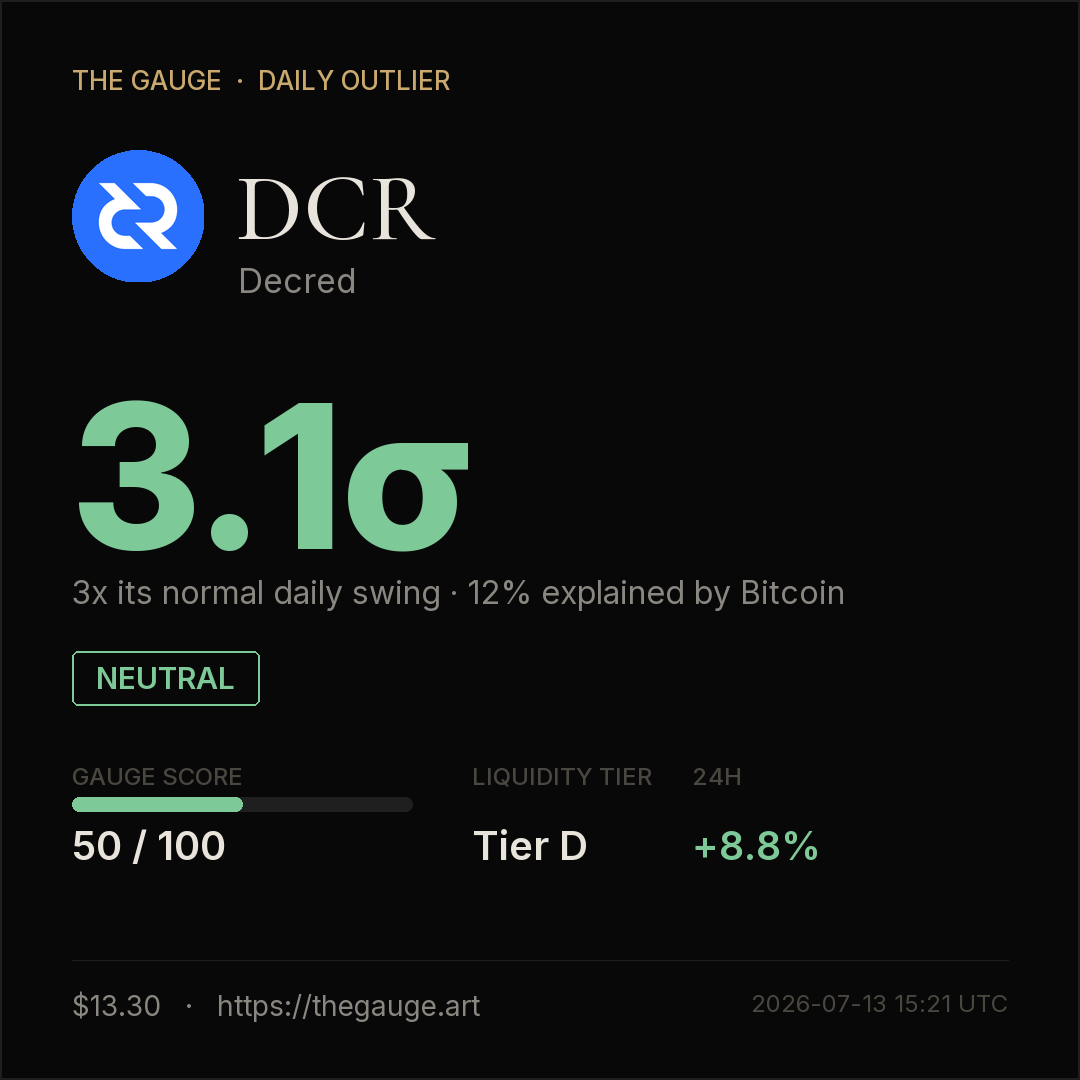
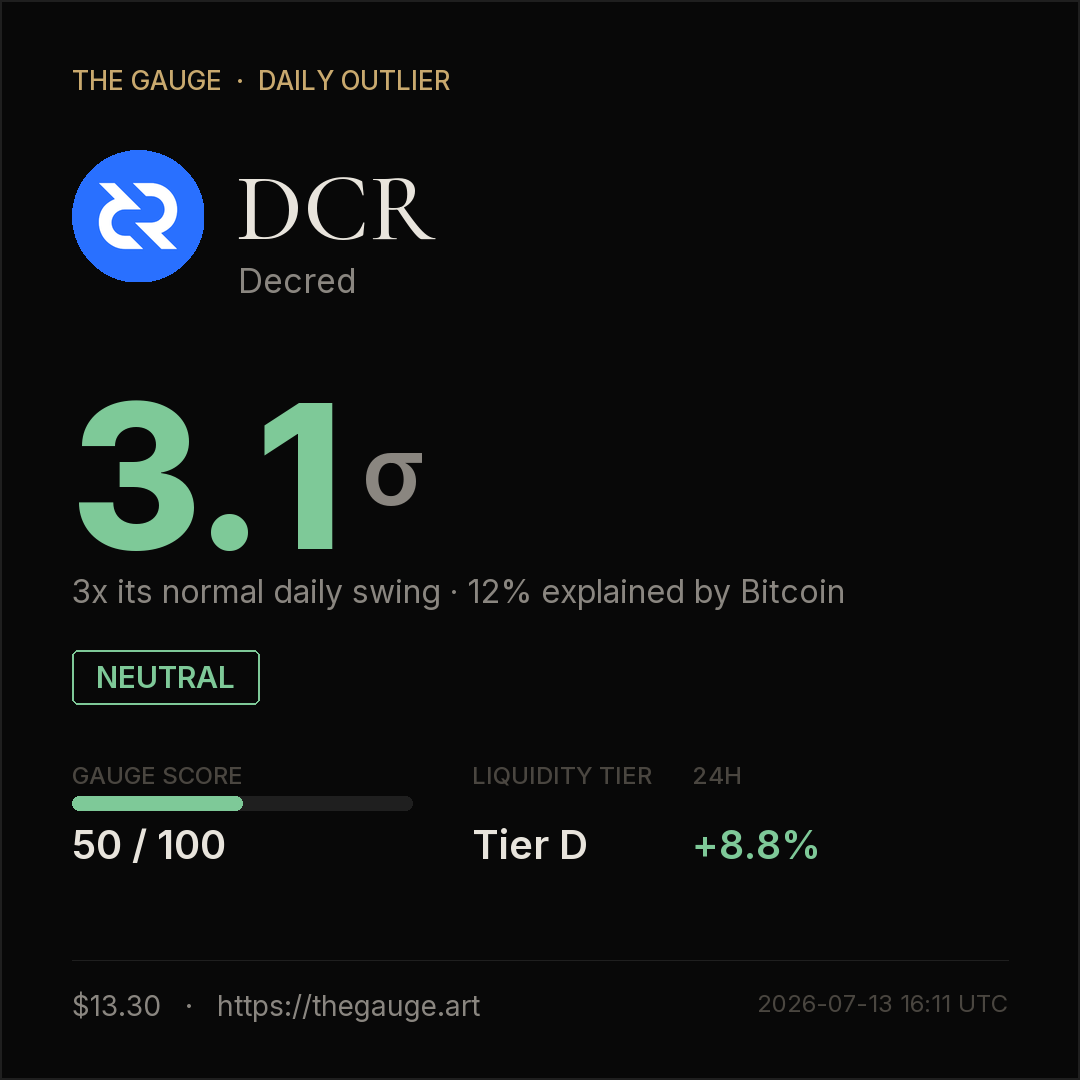
fix: sigma no card colado no numero parecia um 0 deformado; social/ dava 404 sem pagina de verdade pra navegar
(1) sigma agora menor, cor MUTED, com respiro do numero -- lia como parte
do digito colado na mesma cor/tamanho. (2) hospedagem estatica nao lista
diretorio, /social/ sozinho sempre ia dar 404 nao importa o que -- criada
docs/social.html que le um manifest (docs/social/latest.json, escrito pelo
render_cards.py a cada run) e monta a galeria + botao de copiar o texto da
thread. Linkado no nav do dashboard e no footer da landing.

diff --git a/docs/social.html b/docs/social.html
@@ -1,0 +1,138 @@
+<!DOCTYPE html>
+<html lang="en">
+<head>
+<meta charset="UTF-8">
+<meta name="viewport" content="width=device-width, initial-scale=1.0">
+<title>The Gauge — Social Kit</title>
+<link rel="icon" type="image/svg+xml" href="favicon.svg">
+<link rel="alternate icon" href="favicon.ico">
+<link rel="apple-touch-icon" href="apple-touch-icon.png">
+<link rel="preconnect" href="https://fonts.googleapis.com">
+<link href="https://fonts.googleapis.com/css2?family=Cormorant+Garamond:ital,wght@0,300;0,400;0,600;1,300;1,400&family=Inter:wght@300;400;500;600&display=swap" rel="stylesheet">
+<style>
+:root {
+  --bg:       #080808;
+  --surface:  #0f0f0f;
+  --lift:     #161616;
+  --border:   #1f1f1f;
+  --border2:  #2a2a2a;
+  --text:     #e8e4dc;
+  --muted:    #5a5650;
+  --dim:      #3a3632;
+  --gold:     #c9a96e;
+  --gold-dim: rgba(201,169,110,0.08);
+  --gold-mid: rgba(201,169,110,0.18);
+  --ice:      #7eb8c9;
+  --heat:     #c97a6e;
+  --green:    #7ec998;
+}
+*, *::before, *::after { box-sizing: border-box; margin: 0; padding: 0; }
+body { background: var(--bg); color: var(--text); font-family: 'Inter', sans-serif; font-weight: 300; line-height: 1.6; -webkit-font-smoothing: antialiased; }
+.serif { font-family: 'Cormorant Garamond', Georgia, serif; }
+
+nav { display: flex; justify-content: space-between; align-items: center; padding: 24px 48px; border-bottom: 1px solid var(--border); }
+.nav-logo { font-family: 'Cormorant Garamond', serif; font-size: 20px; font-weight: 400; letter-spacing: 2px; text-transform: uppercase; color: var(--text); text-decoration: none; }
+.nav-logo span { color: var(--gold); }
+.nav-back { font-size: 11px; letter-spacing: 1.5px; text-transform: uppercase; color: var(--muted); text-decoration: none; transition: color .2s; }
+.nav-back:hover { color: var(--gold); }
+
+.wrap { max-width: 1160px; margin: 0 auto; padding: 44px 48px 90px; }
+.page-head { max-width: 640px; margin-bottom: 40px; }
+.section-eyebrow { font-size: 10px; letter-spacing: 4px; text-transform: uppercase; color: var(--gold); margin-bottom: 16px; }
+h1 { font-family: 'Cormorant Garamond', serif; font-size: clamp(32px, 5vw, 48px); font-weight: 300; line-height: 1.1; letter-spacing: -0.5px; margin-bottom: 14px; }
+h1 em { font-style: italic; color: var(--gold); }
+.page-sub { font-size: 14.5px; color: var(--muted); line-height: 1.75; max-width: 560px; }
+
+.kit-grid { display: grid; grid-template-columns: repeat(auto-fill, minmax(260px, 1fr)); gap: 20px; margin-bottom: 44px; }
+.kit-card { border: 1px solid var(--border); background: var(--surface); overflow: hidden; }
+.kit-card img { width: 100%; display: block; }
+.kit-card-foot { padding: 14px 16px; display: flex; justify-content: space-between; align-items: center; }
+.kit-card-foot .sym { font-size: 13px; color: var(--text); }
+.kit-card-foot a { font-size: 11px; letter-spacing: 1px; text-transform: uppercase; color: var(--gold); text-decoration: none; }
+.kit-card-foot a:hover { text-decoration: underline; }
+
+.post-box { border: 1px solid var(--border); background: var(--surface); padding: 28px; max-width: 640px; }
+.post-box h3 { font-family: 'Cormorant Garamond', serif; font-weight: 400; font-size: 22px; margin-bottom: 14px; }
+.post-box pre { white-space: pre-wrap; font-family: 'Inter', sans-serif; font-size: 13px; color: var(--muted); line-height: 1.7; margin-bottom: 18px; }
+.copy-btn { font-size: 11px; letter-spacing: 1.5px; text-transform: uppercase; padding: 10px 22px; border: 1px solid var(--gold); background: transparent; color: var(--gold); cursor: pointer; }
+.copy-btn:hover { background: var(--gold-dim); }
+.empty-box { border: 1px solid var(--border); background: var(--surface); padding: 60px 20px; text-align: center; color: var(--muted); font-size: 13.5px; max-width: 640px; }
+
+footer { border-top: 1px solid var(--border); padding: 32px 48px; display: flex; justify-content: space-between; align-items: center; font-size: 12px; color: var(--dim); letter-spacing: .5px; }
+footer a { color: var(--dim); text-decoration: none; }
+footer a:hover { color: var(--muted); }
+
+@media(max-width: 820px) {
+  nav { padding: 18px 24px; }
+  .wrap { padding: 28px 20px 60px; }
+  footer { flex-direction: column; gap: 12px; padding: 28px 24px; text-align: center; }
+}
+</style>
+</head>
+<body>
+
+<nav>
+  <a class="nav-logo" href="index.html">The <span>Gauge</span></a>
+  <a class="nav-back" href="dashboard.html">← Dashboard</a>
+</nav>
+
+<div class="wrap">
+  <div class="page-head">
+    <p class="section-eyebrow">Social Kit</p>
+    <h1 class="serif">Today's <em>outliers,</em><br>ready to share.</h1>
+    <p class="page-sub" id="pageSub">One card per coin that moved statistically extreme and independent of Bitcoin today. Generated automatically, updated once a day.</p>
+  </div>
+
+  <div id="kitGrid" class="kit-grid"></div>
+  <div id="postSection"></div>
+</div>
+
+<footer>
+  <span>© 2026 The Gauge — gauging the market is an art.</span>
+  <a href="https://thegauge.gumroad.com/l/mkmzrq">Other research</a>
+  <a href="mailto:hello@thegauge.art">hello@thegauge.art</a>
+</footer>
+
+<script>
+fetch('social/latest.json?t=' + Date.now())
+  .then(r => { if (!r.ok) throw new Error('HTTP ' + r.status); return r.json(); })
+  .then(m => {
+    const grid = document.getElementById('kitGrid');
+    const dateStr = m.date;
+    document.getElementById('pageSub').textContent =
+      (m.assets.length ? m.assets.length + ' coin(s) stood out on ' : 'No outliers on ') + dateStr + '.';
+
+    if (!m.assets.length) {
+      grid.innerHTML = '<div class="empty-box">Nothing statistically extreme and independent of Bitcoin that day — a quiet day, no cards generated.</div>';
+      return;
+    }
+
+    grid.innerHTML = m.assets.map(a =>
+      '<div class="kit-card"><img src="social/' + dateStr + '/' + a.file + '" alt="' + a.symbol + '">'
+      + '<div class="kit-card-foot"><span class="sym">' + a.symbol + ' · ' + Math.abs(a.sigma).toFixed(1) + 'σ</span>'
+      + '<a href="social/' + dateStr + '/' + a.file + '" download>Download</a></div></div>'
+    ).join('');
+
+    fetch('social/' + dateStr + '/post.txt?t=' + Date.now())
+      .then(r => r.ok ? r.text() : null)
+      .then(txt => {
+        if (!txt) return;
+        document.getElementById('postSection').innerHTML =
+          '<div class="post-box"><h3 class="serif">Thread text</h3><pre id="postText"></pre>'
+          + '<button class="copy-btn" id="copyBtn">Copy text</button></div>';
+        document.getElementById('postText').textContent = txt;
+        document.getElementById('copyBtn').addEventListener('click', function(){
+          navigator.clipboard.writeText(txt).then(() => {
+            this.textContent = 'Copied!';
+            setTimeout(() => { this.textContent = 'Copy text'; }, 1500);
+          });
+        });
+      });
+  })
+  .catch(e => {
+    document.getElementById('kitGrid').innerHTML = '<div class="empty-box">Couldn\'t load the social kit right now.</div>';
+    console.warn('social kit fetch failed:', e);
+  });
+</script>
+</body>
+</html>

diff --git a/marketing/render_cards.py b/marketing/render_cards.py
@@ -166,13 +166,25 @@ def render_card(asset, out_path):
     name = asset.get("name") or asset["symbol"]
     d.text((text_x + 2, 260), truncate(d, name, f_name, max_w), font=f_name, fill=hx(MUTED))
 
-    # numero hero: sigma. Sans (Inter), nao serif — Cormorant Garamond nao tem
-    # glifo de sigma nesse eixo variavel (renderiza um tofu "NO GLYPH").
+    # numero hero + sigma. Sans (Inter), nao serif — Cormorant Garamond nao
+    # tem glifo de sigma nesse eixo variavel (renderiza um tofu "NO GLYPH").
+    # O "σ" sai MENOR, cor mais fraca (MUTED) e com respiro do numero --
+    # mesma cor/tamanho do numero fazia ele ler como um "0" deformado colado
+    # no numero (achado do usuario 13/jul).
     cursor = 400
     f_hero = font("sans", 200, weight=800)
-    hero = "{:.1f}{}".format(abs(asset["sigma"]), SIGMA)
-    h, off = text_h(d, hero, f_hero)
-    d.text((pad, cursor - off), hero, font=f_hero, fill=hx(color))
+    num = "{:.1f}".format(abs(asset["sigma"]))
+    h, off = text_h(d, num, f_hero)
+    d.text((pad, cursor - off), num, font=f_hero, fill=hx(color))
+    num_w = d.textlength(num, font=f_hero)
+
+    f_unit = font("sans", 96, weight=600)
+    unit_x = pad + num_w + 20
+    uh, uoff = text_h(d, SIGMA, f_unit)
+    # alinha pela base (bottom) do numero, nao pelo topo -- sigma "sentado"
+    # do lado do numero, como uma unidade (kg, %, etc), nao continuando ele.
+    num_bottom = cursor - off + h
+    d.text((unit_x, num_bottom - uh - uoff), SIGMA, font=f_unit, fill=hx(MUTED))
     cursor += h + 28
 
     f_sub = font("sans", 32, weight=400)
@@ -259,8 +271,20 @@ def main():
         render_card(a, path)
 
     build_thread_text(hits, os.path.join(out_dir, "post.txt"))
+
+    # manifest: a pasta em si nao e navegavel (hosting estatico nao lista
+    # diretorio — dava 404 tentando abrir /social/ direto, achado do usuario
+    # 13/jul). docs/social.html le este JSON pra montar uma pagina de verdade.
+    manifest = {
+        "date": date.today().isoformat(),
+        "generated_at": datetime.now(timezone.utc).isoformat(),
+        "assets": [{"symbol": a["symbol"], "name": a.get("name"), "sigma": a["sigma"],
+                    "verdict": a["verdict"], "file": "{}.png".format(a["symbol"])} for a in hits],
+    }
+    json.dump(manifest, open(os.path.join(OUT_ROOT, "latest.json"), "w"), indent=1)
+
     log("Pronto: {} cards + post.txt em {}".format(len(hits), out_dir))
-    log("Publico em: {}/social/{}/".format(DASHBOARD_URL, date.today().isoformat()))
+    log("Publico em: {}/social.html".format(DASHBOARD_URL))
 
 
 if __name__ == "__main__":
